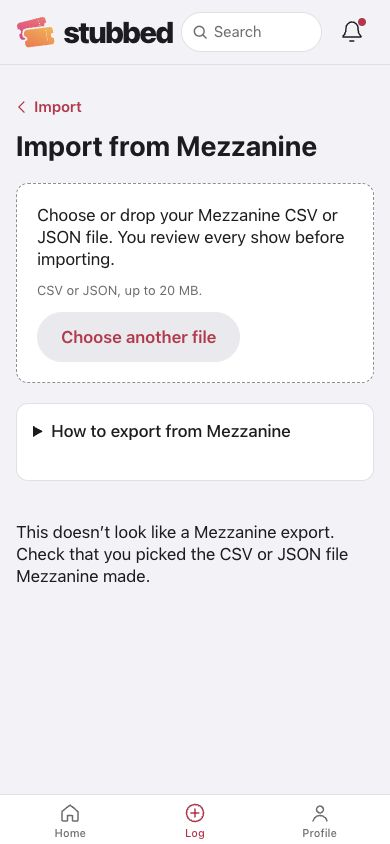
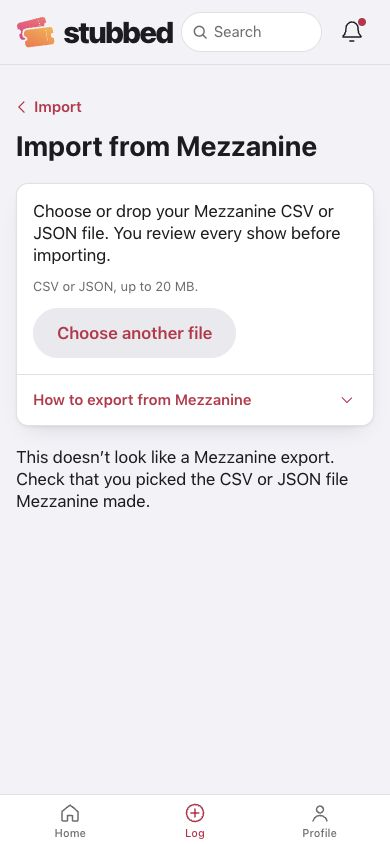
Simplify web import results and problem repair

Changed region(s): [[0.0308, 0.4621, 0.9231, 0.7085], [0.0923, 0.2156, 0.8923, 0.4313]]

diff --git a/apps/web/src/components/app/import/MezzanineImport.tsx b/apps/web/src/components/app/import/MezzanineImport.tsx
@@ -18,6 +18,9 @@ import { DraftCard, type Draft } from "./DraftCard";
 // Region labels are for display; values remain ISO alpha-2 for canonical_city.
 const names = new Intl.DisplayNames(["en"], { type: "region" });
 const countries = COUNTRY_CODES.map((code) => ({ code, name: names.of(code) ?? code })).sort((a, b) => a.name.localeCompare(b.name));
+const textAction = "inline-flex min-h-11 items-center text-subheadline font-semibold text-tint-text underline-offset-4 hover:underline focus-visible:outline-2 focus-visible:outline-offset-2 focus-visible:outline-focus disabled:opacity-40";
+const disclosureSummary = "flex min-h-[50px] cursor-pointer list-none items-center justify-between gap-3 px-4 text-subheadline font-semibold text-tint-text focus-visible:outline-2 focus-visible:outline-focus [&::-webkit-details-marker]:hidden";
+const chevron = <svg aria-hidden="true" viewBox="0 0 24 24" width="20" height="20" fill="none" stroke="currentColor" strokeWidth="1.5" className="shrink-0 transition-transform group-open:rotate-180"><path d="m6 9 6 6 6-6" /></svg>;
 const fieldClass = "min-h-11 w-full rounded-md border border-outline bg-surface px-3 text-body text-label focus-visible:outline-2 focus-visible:outline-focus";
 
 export function MezzanineImport() {
@@ -66,7 +69,7 @@ export function MezzanineImport() {
       (count, total) => { if (!stopRequested.current) setProgress(`Matching shows and theatres: ${count} of ${total}`); }, () => stopRequested.current);
     existing.current = result.existing; setDrafts(result.drafts);
     setReadyExpanded(result.drafts.length <= 10);
-    setProgress(`${result.drafts.length} ${result.drafts.length === 1 ? "show" : "shows"} in this file.`);
+    setProgress("");
   }
   async function read(file: File) {
     if (busyRef.current) return;
@@ -176,7 +179,7 @@ export function MezzanineImport() {
   ];
   const ready = groups[1].rows, needs = groups[0].rows, duplicates = groups[2].rows;
   const left = drafts.filter((d) => d.status !== "saved" && !d.duplicate).length;
-  const details = [stopped && left ? `${left} left` : needs.length ? `${needs.length} to fix` : null,
+  const details = [stopped && left ? `${left} left` : needs.length ? `${needs.length} ${needs.length === 1 ? "needs" : "need"} a fix` : null,
     !stopped && ready.length ? `${ready.length} not imported` : null,
     duplicates.length ? `${duplicates.length} already in your diary` : null].filter(Boolean).join(" · ");
   function selectReady(include: boolean) {
@@ -185,31 +188,42 @@ export function MezzanineImport() {
   }
   function jumpToAttention() { attention.current?.focus(); attention.current?.scrollIntoView({ block: "start", behavior: "smooth" }); }
   function rowList(rows: MezzanineDraft[]) {
-    return <ul className="divide-y divide-separator rounded-md border border-separator bg-surface">
+    return <ul className="divide-y divide-separator rounded-md border border-separator bg-surface shadow-sm">
       {rows.map((d) => {
         const missing = mezzanineMissing(d);
+        const problem = missing.length > 0 || !!d.error;
         const title = d.show?.title || d.reading.extracted.show_title || "Untitled show";
         const when = d.date ? formatDate(d.date) : "date missing";
-        return <li key={d.key} className="flex flex-col gap-3 p-3">
+        const toggleEditor = () => setExpanded(expanded === d.key ? null : d.key);
+        const metadata = <span className="flex min-w-0 flex-col gap-1 break-words">
+          <span className="text-body font-semibold text-label">{title}</span>
+          <span className="text-footnote text-label-secondary">{[d.venue?.name || d.reading.extracted.venue_name, d.venue?.city].filter(Boolean).join(" · ")}</span>
+          {(d.date || d.rating != null) && <span className="flex flex-wrap items-center gap-x-3 gap-y-1 text-footnote text-label-secondary">
+            {d.date && <span>{when}</span>}{d.rating != null && <RatingStars value={d.rating} />}
+          </span>}
+          {d.duplicate && <span className="text-footnote text-label-secondary">Already in your diary</span>}
+        </span>;
+        return <li key={d.key} className="flex flex-col gap-3 p-4">
           <div className="flex items-start gap-3">
-            <label className="flex min-h-11 min-w-0 flex-1 items-start gap-3">
-              {missing.length ? <svg viewBox="0 0 24 24" width="20" height="20" role="img" aria-label="Needs attention" className="mt-1 shrink-0 text-label-secondary" fill="none" stroke="currentColor" strokeWidth="1.5"><circle cx="12" cy="12" r="9"/><path d="M12 7v6m0 3v1"/></svg>
-                : <input type="checkbox" checked={d.include} disabled={busy || d.status === "resolving" || !!d.error?.startsWith("Couldn’t check")}
-                  onChange={(e) => update(d.key, (row) => ({ ...row, include: e.target.checked }))} className="mt-1 size-5 shrink-0 cursor-pointer accent-tint" />}
-              <span className="flex min-w-0 flex-col gap-1 break-words">
-                <span className="text-body font-semibold text-label">{title}</span>
-                <span className="text-footnote text-label-secondary">{[d.venue?.name || d.reading.extracted.venue_name, d.venue?.city].filter(Boolean).join(", ")}</span>
-                <span className="flex flex-wrap items-center gap-x-3 gap-y-1 text-footnote text-label-secondary">
-                  {d.date && <span>{when}</span>}{d.rating != null && <RatingStars value={d.rating} />}
-                </span>
-                {missing.length > 0 && <span className="text-footnote text-destructive">{attentionCopy(missing)}</span>}
-                {d.duplicate && <span className="text-footnote">Already in your diary</span>}
-              </span>
-            </label>
-            <Button variant="ghost" size="sm" disabled={busy} aria-label={`Edit ${title}, ${when}`} aria-expanded={expanded === d.key}
-              onClick={() => setExpanded(expanded === d.key ? null : d.key)}>Edit</Button>
+            {problem ? <>
+              <svg viewBox="0 0 24 24" width="20" height="20" aria-hidden="true" className="mt-1 shrink-0 text-destructive" fill="none" stroke="currentColor" strokeWidth="1.5"><circle cx="12" cy="12" r="9"/><path d="M12 7v6m0 3v1"/></svg>
+              <div className="min-w-0 flex-1">
+                {metadata}
+                <div className="mt-1 flex flex-wrap items-center gap-x-3 gap-y-1">
+                  {missing.length > 0 && <span className="rounded-pill bg-tint-fill px-3 py-1 text-footnote text-destructive">{attentionCopy(missing)}</span>}
+                  <button type="button" className={textAction} disabled={busy} aria-label={`Fix ${title}, ${when}`} aria-expanded={expanded === d.key} onClick={toggleEditor}>Fix</button>
+                </div>
+                {d.error && <p role="alert" className="text-subheadline text-destructive">{d.error}</p>}
+              </div>
+            </> : <>
+              <label className="flex min-h-11 min-w-0 flex-1 items-start gap-3">
+                <input type="checkbox" checked={d.include} disabled={busy || d.status === "resolving"}
+                  onChange={(e) => update(d.key, (row) => ({ ...row, include: e.target.checked }))} className="mt-1 size-5 shrink-0 cursor-pointer accent-tint" />
+                {metadata}
+              </label>
+              <button type="button" className={textAction} disabled={busy} aria-label={`Edit ${title}, ${when}`} aria-expanded={expanded === d.key} onClick={toggleEditor}>Edit</button>
+            </>}
           </div>
-          {d.error && <p role="alert" className="text-subheadline text-destructive">{d.error}</p>}
           {expanded === d.key && <fieldset disabled={busy} className="min-w-0 [&_.border-separator]:border-outline"><DraftCard draft={d} headingLevel={3} showSelection={false} duplicateOf={null} emailText={() => undefined} onChange={(patches) => void patch(d, patches)} /></fieldset>}
           {expanded === d.key && d.invalidRating && <Button variant="secondary" disabled={busy} onClick={() => void patch(d, { rating: null })}>Clear invalid rating</Button>}
         </li>;
@@ -217,33 +231,37 @@ export function MezzanineImport() {
     </ul>;
   }
   return <div className="flex flex-col gap-5 pb-24">
-    <div role="group" aria-label="Choose or drop a Mezzanine export" onDragOver={(e) => e.preventDefault()}
+    <input ref={input} type="file" accept=".csv,.json" className="sr-only" tabIndex={-1} aria-label="Mezzanine export file" disabled={busy}
+      onChange={(e) => { const file = e.target.files?.[0]; if (file) void read(file); e.target.value = ""; }} />
+    {!finished && <div role="group" aria-label="Choose or drop a Mezzanine export" onDragOver={(e) => e.preventDefault()}
       onDrop={(e) => { e.preventDefault(); const file = e.dataTransfer.files[0]; if (file) void read(file); }}
-      className="flex flex-col items-start gap-3 rounded-md border border-dashed border-outline bg-surface p-5">
-      <p className="text-body text-label">Choose or drop your Mezzanine CSV or JSON file. You review every show before importing.</p>
-      <p id="file-limit" className="text-footnote text-label-secondary">CSV or JSON, up to 20 MB.</p>
-      <input ref={input} type="file" accept=".csv,.json" className="sr-only" tabIndex={-1} aria-label="Mezzanine export file" disabled={busy}
-        onChange={(e) => { const file = e.target.files?.[0]; if (file) void read(file); e.target.value = ""; }} />
-      <Button variant="secondary" aria-describedby="file-limit" disabled={busy} onClick={() => input.current?.click()}>{error || drafts.length ? "Choose another file" : "Choose a file"}</Button>
-    </div>
-    <details className="rounded-md border border-separator bg-surface p-4">
-      <summary className="min-h-11 cursor-pointer text-body font-medium text-label">How to export from Mezzanine</summary>
-      <p className="text-subheadline text-label-secondary">{MEZZANINE_EXPORT_HELP}</p>
-    </details>
-    <p role="status" aria-live="polite" className="text-subheadline text-label-secondary">{progress}</p>
+      className="overflow-hidden rounded-md border border-separator bg-surface shadow-sm">
+      <div className="flex flex-col items-start gap-3 p-4">
+        {parsed ? <p className="text-body text-label">{parsed.length} {parsed.length === 1 ? "show" : "shows"} in this file</p>
+          : <><p className="text-body text-label">Choose or drop your Mezzanine CSV or JSON file. You review every show before importing.</p>
+            <p id="file-limit" className="text-footnote text-label-secondary">CSV or JSON, up to 20 MB.</p></>}
+        <Button variant="secondary" aria-describedby={parsed ? undefined : "file-limit"} disabled={busy} onClick={() => input.current?.click()}>{error || parsed ? "Choose another file" : "Choose a file"}</Button>
+        {progress && <p className="text-subheadline text-label-secondary">{progress}</p>}
+      </div>
+      {!parsed && <details className="group border-t border-separator">
+        <summary className={disclosureSummary}>How to export from Mezzanine{chevron}</summary>
+        <p className="border-t border-separator p-4 text-subheadline text-label-secondary">{MEZZANINE_EXPORT_HELP}</p>
+      </details>}
+    </div>}
+    <p role="status" aria-live="polite" className="sr-only">{progress}</p>
     {error && <div role="alert" className="flex flex-col items-start gap-3"><p>{error}</p>{parsed && <Button variant="secondary" disabled={busy} onClick={retryResolve}>Try again</Button>}</div>}
     {matchingStopped && <Button variant="secondary" disabled={busy} onClick={retryResolve}>Resume matching</Button>}
-    {finished && <section ref={summary} tabIndex={-1} aria-labelledby="import-result" className="scroll-mt-20 rounded-md border border-separator bg-surface p-5 focus-visible:outline-2 focus-visible:outline-focus">
-      <h2 id="import-result" className="text-title font-display text-label">{added ? `${added} ${added === 1 ? "show" : "shows"} added to your diary` : "No shows added to your diary"}</h2>
+    {finished && <section ref={summary} tabIndex={-1} aria-labelledby="import-result" className="scroll-mt-20 focus-visible:outline-2 focus-visible:outline-focus">
+      <h2 id="import-result" className="text-title font-display text-label">{added ? `${added} ${added === 1 ? "show" : "shows"} added` : "No shows added"}</h2>
       {details && <p className="mt-2 text-subheadline text-label-secondary">{details}</p>}
-      {needs.length > 0 && <Button variant="ghost" size="sm" className="mt-2" onClick={jumpToAttention}>Fix {needs.length} {needs.length === 1 ? "show" : "shows"}</Button>}
+      {needs.length > 0 && <button type="button" className={`${textAction} mt-2`} onClick={jumpToAttention}>Fix {needs.length} {needs.length === 1 ? "show" : "shows"}</button>}
       {selection.length > 0 && <Button variant="secondary" className="mt-3" disabled={busy} onClick={save}>{stopped ? "Continue importing" : "Import selected shows"}</Button>}
+      {needs.length === 0 && ready.length === 0 && <button type="button" className={`${textAction} mt-2`} onClick={() => input.current?.click()}>Import another file</button>}
     </section>}
     {drafts.length > 0 && !finished && <div className="flex flex-col gap-2 text-subheadline text-label-secondary">
-      <p>{ready.length} ready · {needs.length} {needs.length === 1 ? "needs" : "need"} attention · {duplicates.length} already in your diary</p>
-      {needs.length > 0 && <Button variant="ghost" size="sm" className="self-start" onClick={jumpToAttention}>{needs.length} {needs.length === 1 ? "needs" : "need"} attention</Button>}
+      <p>{ready.length} ready · {needs.length > 0 ? <button type="button" className="min-h-11 text-tint-text underline underline-offset-4 focus-visible:outline-2 focus-visible:outline-focus" onClick={jumpToAttention}>{needs.length} {needs.length === 1 ? "needs" : "need"} attention</button> : "0 need attention"} · {duplicates.length} already in your diary</p>
     </div>}
-    {(cities.length > 0 || countryNotice) && <section aria-label="Countries" className="flex flex-col gap-3">
+    {(cities.length > 0 || (!finished && countryNotice)) && <section aria-label="Countries" className="flex flex-col gap-3">
       {cities.length > 0 && <p className="text-subheadline text-label-secondary">Mezzanine doesn’t say which country a theatre is in. Choose one so your stats group correctly.</p>}
       {cities.map((city, i) => <div key={city} className="flex flex-col gap-2">
         <label htmlFor={`city-${i}`} className="flex flex-col gap-2 text-body text-label">Where is {city}?
@@ -255,16 +273,16 @@ export function MezzanineImport() {
       </div>)}
       <p role="status" aria-live="polite" className="text-subheadline text-label-secondary">{countryNotice}</p>
     </section>}
-    {drafts.length > 0 && <p className="text-footnote text-label-secondary">Private notes aren’t imported.{drafts.some((d) => d.planned) && " Future dates become planned shows, without ratings."}</p>}
-    {drafts.length > 0 && drafts.every((d) => d.duplicate) && <p>Every show in this file is already in your diary.</p>}
-    {groups.map((group) => group.rows.length > 0 && <section key={group.id} aria-labelledby={`group-${group.id}`} className="flex flex-col gap-2">
-      <h2 ref={group.id === "needs-attention" ? attention : undefined} tabIndex={-1} id={`group-${group.id}`} className="scroll-mt-20 text-headline text-label focus-visible:outline-2 focus-visible:outline-focus">{group.name} · {group.rows.length}</h2>
+    {drafts.length > 0 && !finished && <p className="text-footnote text-label-secondary">Private notes aren’t imported.{drafts.some((d) => d.planned) && " Future dates become planned shows, without ratings."}</p>}
+    {!finished && drafts.length > 0 && drafts.every((d) => d.duplicate) && <p>Every show in this file is already in your diary.</p>}
+    {groups.map((group) => group.rows.length > 0 && !(finished && group.id === "duplicates") && <section key={group.id} aria-labelledby={`group-${group.id}`} className="flex flex-col gap-2">
+      <h2 ref={group.id === "needs-attention" ? attention : undefined} tabIndex={-1} id={`group-${group.id}`} className="scroll-mt-20 text-headline text-label focus-visible:outline-2 focus-visible:outline-focus">{finished && group.id === "needs-attention" ? `${group.rows.length} ${group.rows.length === 1 ? "show" : "shows"} to fix` : `${group.name} · ${group.rows.length}`}</h2>
       {group.id === "ready" && <Button variant="ghost" size="sm" className="self-start" disabled={busy}
         onClick={() => selectReady(!ready.every((d) => d.include))}>{ready.every((d) => d.include) ? "Untick all ready shows" : "Select all ready shows"}</Button>}
-      {group.id === "needs-attention" ? rowList(group.rows) : <details open={group.id === "ready" ? readyExpanded : duplicatesExpanded}
+      {group.id === "needs-attention" ? rowList(group.rows) : <details className="group overflow-hidden rounded-md border border-separator bg-surface shadow-sm" open={group.id === "ready" ? readyExpanded : duplicatesExpanded}
         onToggle={(e) => group.id === "ready" ? setReadyExpanded(e.currentTarget.open) : setDuplicatesExpanded(e.currentTarget.open)}>
-        <summary className="min-h-11 cursor-pointer text-subheadline font-medium text-tint-text">{group.id === "ready" ? "Review ready shows" : "Review existing visits"}</summary>
-        {rowList(group.rows)}
+        <summary className={disclosureSummary}>{group.id === "ready" ? "Review ready shows" : "Review existing visits"}{chevron}</summary>
+        <div className="border-t border-separator [&>ul]:rounded-none [&>ul]:border-0 [&>ul]:shadow-none">{rowList(group.rows)}</div>
       </details>}
     </section>)}
     {(drafts.length > 0 || busy) && <div className="sticky bottom-[calc(4rem+env(safe-area-inset-bottom))] z-10 -mx-4 border-t border-separator bg-surface p-4 md:bottom-0 md:mx-0">

diff --git a/apps/web/test/mezzanine.test.ts b/apps/web/test/mezzanine.test.ts
@@ -158,8 +158,8 @@ test("exports over 20 MB are rejected before reading, and attention copy names t
   const { checkMezzanineFileSize, MAX_MEZZANINE_FILE_BYTES, attentionCopy } = await import("@/lib/import/mezzanine-review");
   assert.doesNotThrow(() => checkMezzanineFileSize(MAX_MEZZANINE_FILE_BYTES));
   assert.throws(() => checkMezzanineFileSize(MAX_MEZZANINE_FILE_BYTES + 1), /smaller than 20 MB/);
-  assert.equal(attentionCopy(["country"]), "Needs a country.");
-  assert.equal(attentionCopy(["date", "rating"]), "Needs a valid date, a valid rating.");
+  assert.equal(attentionCopy(["country"]), "Choose a country");
+  assert.equal(attentionCopy(["date", "rating"]), "Add a date · Check the rating");
 });
 test("Stop during matching does not start later batches or query diary entries", async () => {
   const { resolveMezzanine, MezzanineStopped } = await import("@/lib/import/mezzanine-resolve");

diff --git a/apps/web/src/lib/import/mezzanine-review.ts b/apps/web/src/lib/import/mezzanine-review.ts
@@ -5,8 +5,8 @@ export function checkMezzanineFileSize(bytes: number) {
   if (bytes > MAX_MEZZANINE_FILE_BYTES) throw new Error("This file is too large. Choose a Mezzanine export smaller than 20 MB.");
 }
 export function attentionCopy(fields: string[]): string {
-  const names: Record<string, string> = { show: "a show", venue: "a venue", city: "a city", country: "a country", date: "a valid date", rating: "a valid rating" };
-  return fields.length ? `Needs ${fields.map((field) => names[field] ?? field).join(", ")}.` : "";
+  const actions: Record<string, string> = { show: "Choose a show", venue: "Add a theatre", city: "Add a city", country: "Choose a country", date: "Add a date", rating: "Check the rating" };
+  return fields.map((field) => actions[field] ?? `Check ${field}`).join(" · ");
 }
 export async function runImportBatch<T>(items: T[], options: {
   shouldStop: () => boolean;

diff --git a/docs/screenshots/import-215/README.md b/docs/screenshots/import-215/README.md
@@ -14,6 +14,16 @@ The PR design review's five priority findings are addressed on both platforms:
 
 Also addressed: named Edit accessibility actions, h3 editor headings inside h2 groups, control outlines, 20 MB pre-read limit, distinct invalid-file and retryable network errors, shared export-help wording, less prominent Log a show shortcut, and Apply for iOS row edits. The web Choose a file button remains the keyboard equivalent of drag-and-drop. No new share-card or share-extension flow was added from the review's exploratory questions.
 
+## Web result and container follow-up, 6 November 2026
+
+The latest review is addressed in the web screens: completion replaces the chooser/help/notes with a plain result block, short heading and non-zero detail counts. View diary remains the only primary action. Remaining problems appear under “N shows to fix”, with a flush text shortcut; a clean completion offers Import another file. Finished progress is announced only to screen readers. Stopped and unselected rows remain available to continue importing.
+
+Problem rows pair a warning-coloured icon with an action-oriented Coral Wash pill and a named Fix link. The count line itself jumps to problems, removing the repeated shortcut. Export help lives in the chooser footer with the trip disclosure pattern, and the chosen file shows its row count and replacement action. Containers follow 16px padding, 12px corners, hairline borders and shadow-sm.
+
+Browser verification covered partial completion, result focus, the Fix shortcut, opening the named repair editor, correcting a date by keyboard, clearing an invalid rating, importing the repaired row, clean completion and choosing another file. Updated mobile and desktop result captures and the integrated help are below. Web checks were rerun: all 125 tests, lint, typecheck and production build pass. iOS is unchanged by this follow-up.
+
+The suggested Card, Notice and Disclosure primitives remain a separate design-system follow-up; this PR does not migrate unrelated screens.
+
 ## Checks
 
 - Web: 125 tests, lint, typecheck and production build pass.
@@ -27,6 +37,9 @@ Before release: check a real Mezzanine file through the iOS system picker, the e
 
 ![Web completion, mobile](web-summary-mobile.jpg)
 ![Web completion, desktop](web-summary-desktop.jpg)
+![Web completion without exceptions](web-summary-complete-mobile.jpg)
+![Web review with a problem row](web-review-mobile.jpg)
+![File chooser with integrated export help](web-file-help-mobile.jpg)
 ![300-row count summary](web-bulk-top-mobile.jpg)
 ![Collapsed Ready section and bulk controls](web-bulk-controls-mobile.jpg)
 ![Wrong-file error](web-wrong-file-mobile.jpg)

diff --git a/docs/DECISIONS.md b/docs/DECISIONS.md
@@ -1028,3 +1028,7 @@ Export help deliberately uses generic wording: the owner still needs to verify t
 The design review of #405 showed that a history import needed bulk controls and a clear completion state. Both reviews now show counts and a shortcut to problems before the list; Needs attention comes first, while ready visits and duplicates can collapse. Ready selections can be cleared or restored together. iOS uses compact checkmark rows with swipe/context editing and a warning glyph for exceptions; the hub uses semantic text colours and tinted icons with chevrons.
 
 After an import, View diary becomes the primary action. Result details omit zero counts and distinguish rows to fix from visits left after Stop. Stop finishes the active save and keeps remaining row ids and selections, so Continue cannot resave completed visits. Matching stops between bounded batches or diary pages and keeps the parsed file for resuming. The country step explains the missing export field, offers the last country again and announces its application; matched venue countries are still inherited, never guessed. Both file pickers reject exports over 20 MB before reading. No share moment, share-extension path or paid UI was added; these were exploratory review questions, beyond this repair.
+
+### 2026-11-06 — Web import completion replaces setup
+
+After saving a Mezzanine file, show a plain result block and only remaining actionable rows. Hide the chooser, export help, privacy note and existing-visit list; retain duplicate counts in the result. The sticky View diary action is the sole primary, a clean completion offers Import another file, and partial or stopped imports retain repair and continuation controls. Keep completion progress available to screen readers. Problem rows use an action-oriented warning pill and a named Fix action. Fold export help into the chooser using the trip disclosure pattern, and apply the existing container spacing/elevation spec. Shared Card, Notice and Disclosure primitives belong in a separate follow-up rather than widening this import PR.
